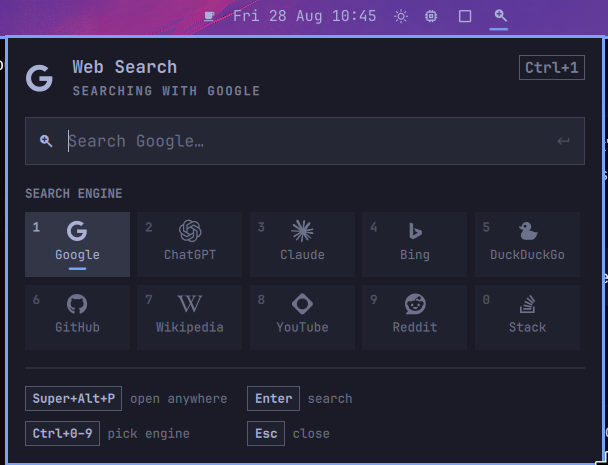
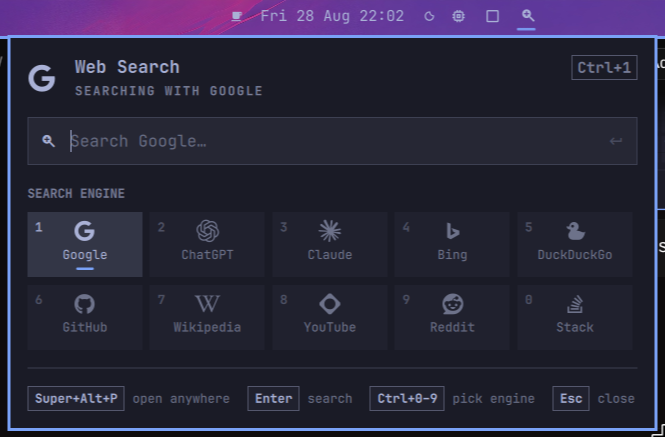
Align panel legend in a single row
Lay the four keycap hints out as one Row whose gaps absorb the leftover
width, and widen the panel so every label fits without clipping. Refresh
the preview image to match.

diff --git a/Panel.qml b/Panel.qml
@@ -176,7 +176,7 @@ Panel {
     open: root.opened
     focusTarget: queryField
     centerOnBar: true
-    contentWidth: panel.fittedContentWidth(Style.space(480))
+    contentWidth: panel.fittedContentWidth(Style.space(520))
     contentHeight: panel.fittedContentHeight(content.implicitHeight)
 
     PanelKeyCatcher {
@@ -409,18 +409,23 @@ Panel {
           foreground: root.contentForeground
         }
 
-        // Two fixed columns rather than a Flow: the legend then always
-        // breaks in the same place instead of orphaning a hint whenever the
-        // theme's font or spacing scale shifts the wrap point.
-        Grid {
-          columns: 2
-          columnSpacing: Style.space(16)
-          rowSpacing: Style.space(8)
+        // One row rather than a Flow or Grid: the gaps absorb whatever
+        // width is left over, so the legend spreads across the panel and
+        // never wraps or orphans a hint when the theme rescales fonts.
+        Row {
+          id: legend
+          width: parent.width
 
-          KeyHint { keys: root.shortcutLabel(); label: "open anywhere" }
-          KeyHint { keys: "Enter"; label: "search" }
-          KeyHint { keys: "Ctrl+0–9"; label: "pick engine" }
-          KeyHint { keys: "Esc"; label: "close" }
+          readonly property int hintsWidth: openHint.implicitWidth + enterHint.implicitWidth
+            + engineHint.implicitWidth + escHint.implicitWidth
+
+          spacing: Math.max(Style.space(8),
+                            Math.floor((width - hintsWidth) / 3))
+
+          KeyHint { id: openHint; keys: root.shortcutLabel(); label: "open anywhere" }
+          KeyHint { id: enterHint; keys: "Enter"; label: "search" }
+          KeyHint { id: engineHint; keys: "Ctrl+0–9"; label: "pick engine" }
+          KeyHint { id: escHint; keys: "Esc"; label: "close" }
         }
       }
     }
